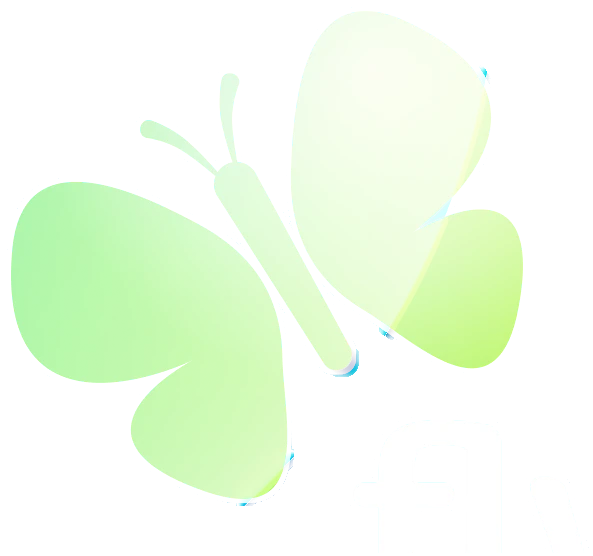
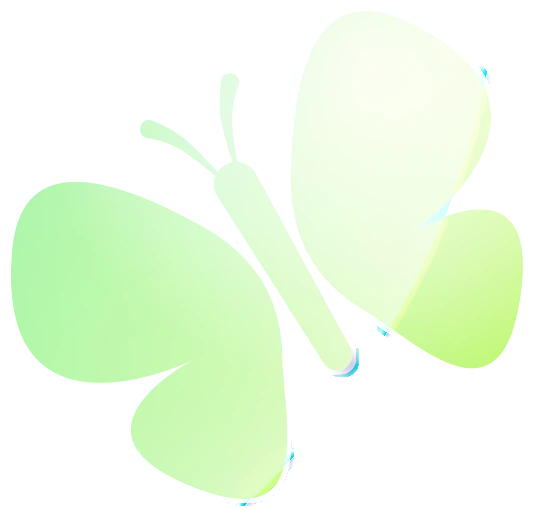
Fix the leftover text and butterfly cut-out

diff --git a/index.html b/index.html
@@ -17,7 +17,7 @@
 <meta name="twitter:card" content="summary_large_image">
 <link rel="icon" href="assets/favicon.png" type="image/png">
 <link rel="apple-touch-icon" href="assets/apple-touch-icon.png">
-<link rel="stylesheet" href="style.css?v=2">
+<link rel="stylesheet" href="style.css?v=3">
 </head>
 <body>
 <main>

diff --git a/style.css b/style.css
@@ -40,11 +40,11 @@ body {
 }
 
 .title {
-  left:31.354%; top:45.787%; width:45.547%
+  left:31.094%; top:45.093%; width:45.807%
 }
 
 .glide {
-  left:23.151%; top:29.398%; width:15.443%
+  left:23.151%; top:29.398%; width:13.906%
 }
 
 .star-yellow {
